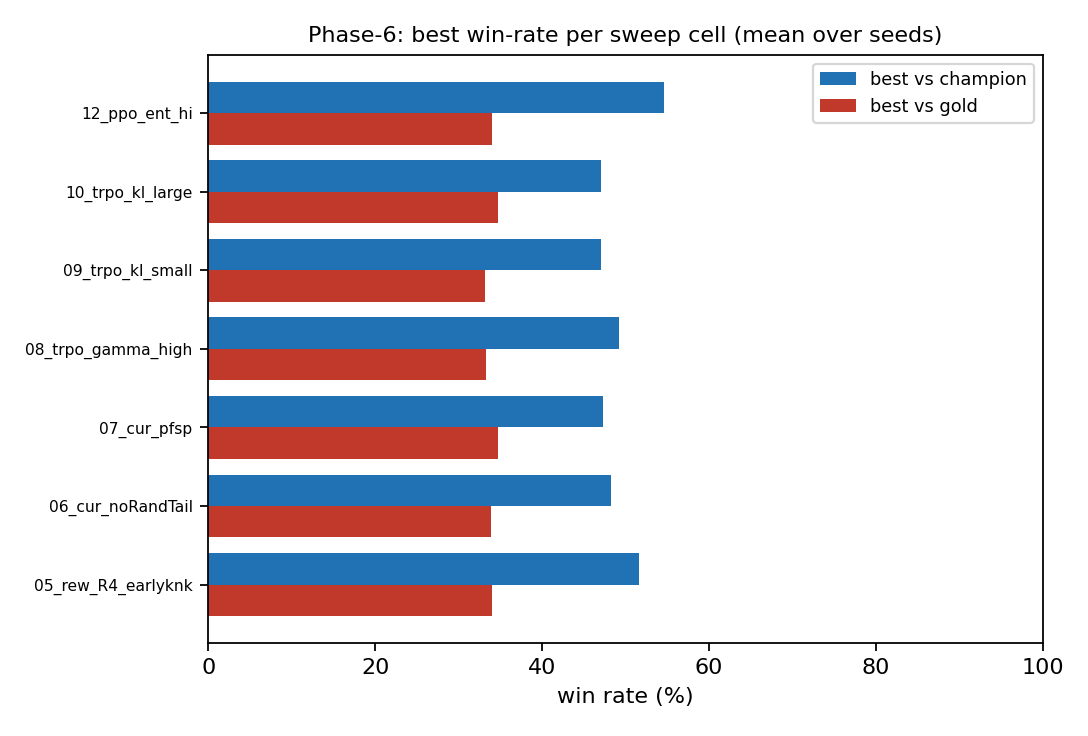
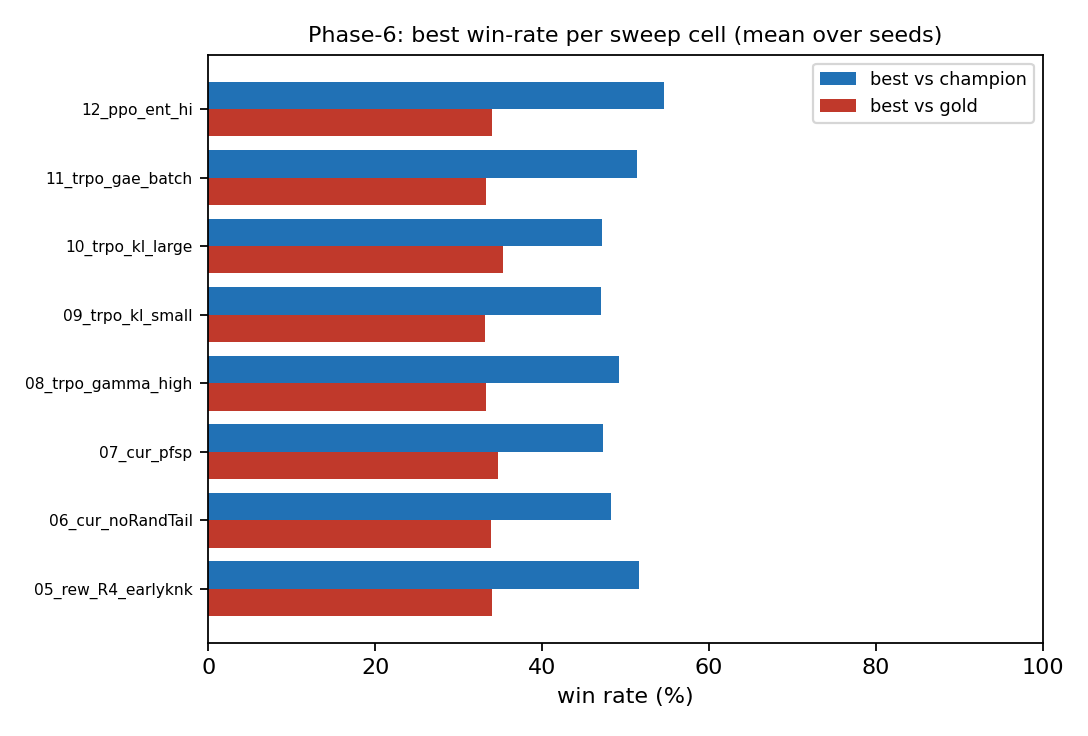
Phase-6 sweep: curriculum/algorithm/reward results + docs (2026-06-05T10:17Z)

Changed region(s): [[0.0312, 0.1875, 0.5938, 0.8125], [0.1875, 0.125, 0.5938, 0.1562], [0.0625, 0.125, 0.1562, 0.1875]]

diff --git a/docs/index.html b/docs/index.html
@@ -406,10 +406,10 @@ ol li,ul li{margin:4px 0;}
 <tr><td>06_cur_noRandTail_s0</td><td>trpo</td><td>no_random_tail</td><td class="n">98.1</td><td class="n">45.0</td><td class="n"><b>31.4</b></td><td class="n">0.40</td></tr>
 <tr><td>10_trpo_kl_large_s1</td><td>trpo</td><td>designed</td><td class="n">98.0</td><td class="n">48.2</td><td class="n"><b>30.9</b></td><td class="n">0.40</td></tr>
 <tr><td>05_rew_R4_earlyknk_s2</td><td>trpo</td><td>designed</td><td class="n">98.8</td><td class="n">49.7</td><td class="n"><b>30.7</b></td><td class="n">0.10</td></tr>
+<tr><td>11_trpo_gae_batch_s0</td><td>trpo</td><td>designed</td><td class="n">98.0</td><td class="n">49.7</td><td class="n"><b>30.7</b></td><td class="n">0.70</td></tr>
 <tr><td>09_trpo_kl_small_s2</td><td>trpo</td><td>designed</td><td class="n">99.3</td><td class="n">47.7</td><td class="n"><b>30.5</b></td><td class="n">0.60</td></tr>
-<tr><td>07_cur_pfsp_s0</td><td>trpo</td><td>designed</td><td class="n">98.8</td><td class="n">44.5</td><td class="n"><b>29.5</b></td><td class="n">0.30</td></tr>
-<tr><td>09_trpo_kl_small_s0</td><td>trpo</td><td>designed</td><td class="n">99.0</td><td class="n">45.9</td><td class="n"><b>29.4</b></td><td class="n">0.30</td></tr>
-<tr><td>10_trpo_kl_large_s0</td><td>trpo</td><td>designed</td><td class="n">98.8</td><td class="n">45.9</td><td class="n"><b>29.2</b></td><td class="n">0.40</td></tr></table>
+<tr><td>10_trpo_kl_large_s2</td><td>trpo</td><td>designed</td><td class="n">98.1</td><td class="n">45.4</td><td class="n"><b>30.4</b></td><td class="n">0.40</td></tr>
+<tr><td>07_cur_pfsp_s0</td><td>trpo</td><td>designed</td><td class="n">98.8</td><td class="n">44.5</td><td class="n"><b>29.5</b></td><td class="n">0.30</td></tr></table>
   <p><b>How it runs.</b> 30 runs as a SLURM array; a self-sustaining watchdog resubmits any failed cell,
   re-aggregates the results, regenerates this page, and pushes &mdash; with no human in the loop &mdash;
   and every run streams to Weights &amp; Biases (<code>phase6-curriculum</code>). Gold stays